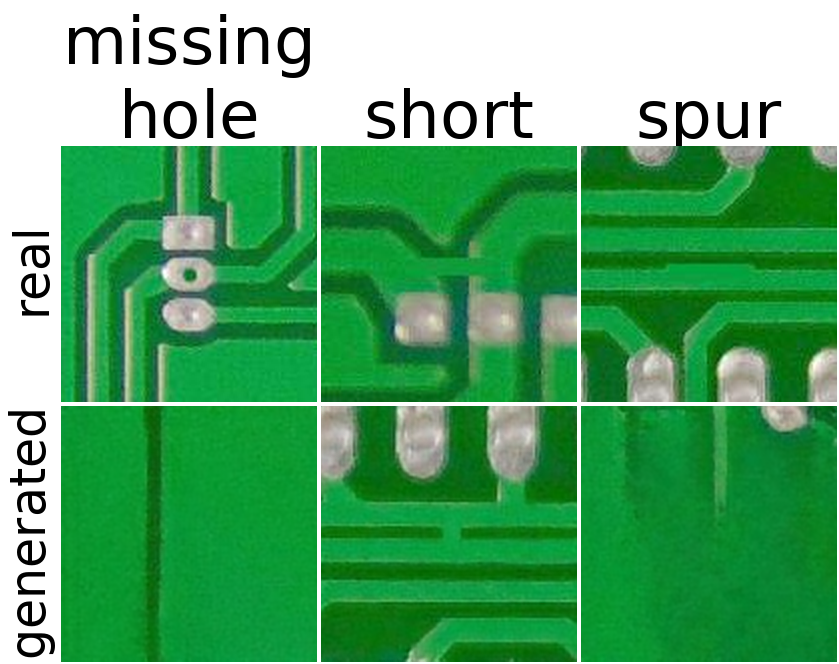
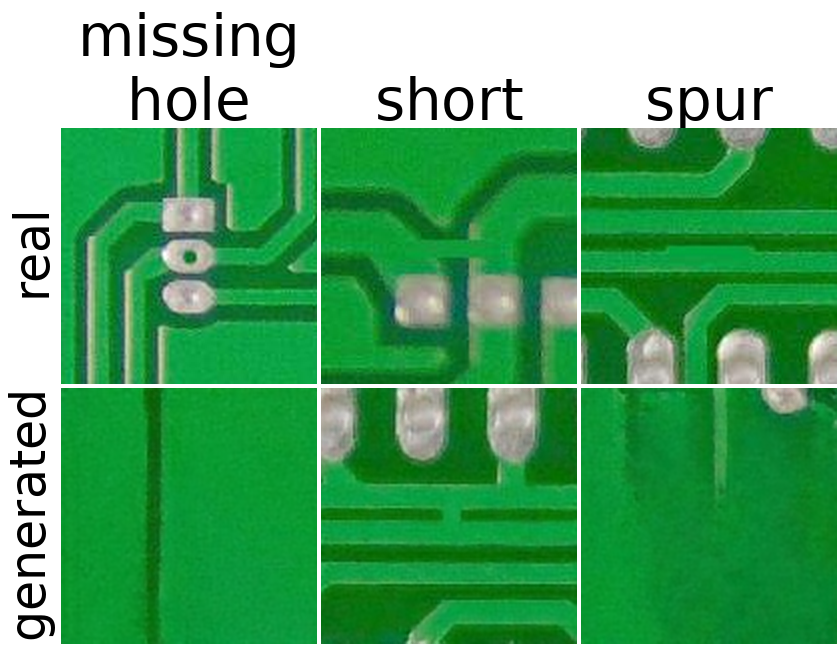
Record the authoritative paper title; correct findings.md Table 1; rescale figure labels to 10 pt
TITLE. The submitted manuscript is a .docx and is not in this repository, so the
title had no authoritative record here. PROVENANCE.md gains a section 0 holding
it -- "What Helps PCB Defect Classification: Crop Scale, Not Generative
Augmentation" -- and README.md's H1 now matches. findings.md's opening line is a
headline, not a title, and section 0 says so.

FINDINGS.MD. Two cells printed 0.896 +/- 0.018 for the TIGHT size-matched
result. Recomputed from results/classifier_Atight_b100_s*.json: macro_f1 is
0.897488 +/- 0.020431 and accuracy is 0.895753, so 0.896 was the accuracy mean
sitting in a macro-F1 column, and no field anywhere has std 0.018. Both cells
now read 0.897 +/- 0.020, matching results/paper_tables.md (which was already
correct) and AUDIT.md section 6 claim 2.

Also corrected in the same row: the accuracy cell read 0.898, which likewise
matches no field; actual is 0.895753 -> 0.896. This was not flagged in AUDIT.md
section 6, which scoped that claim to macro-F1.

The derived "+0.65 macro-F1" is unaffected: 0.897488 - 0.246396 = 0.6511.

FIGURE. Labels are now sized against the printed width rather than as a
multiple of the old pixel sizes. At the 2.0 in placement width the target is
10 pt body text:

  - columns 66 -> 58 px = 9.95 pt. Target met; the tile-width cap is not
    binding, since "missing" is 222 px at 58.
  - rows stay at 49 px = 8.41 pt. The 58 px request is NOT met and cannot be:
[…]

Changed region(s): [[0.0, 0.0, 1.0, 0.9907], [0.0, 0.3096, 0.062, 0.4954]]

diff --git a/make_fig_samples.py b/make_fig_samples.py
@@ -11,24 +11,24 @@ fig_samples_NOTE.txt.
 
 B/W-print safe: black text on white, no colour-coded annotations.
 
-Labels are sized for legibility at ~2-inch print width, targeting ~4x the
-original 17/16 px. Neither axis reaches a full 4x, because a 256 px tile is the
-hard limit in both directions and fit_font caps each to it:
-  - COLUMNS: "missing_hole" on one line is 441 px at 4x against a 256 px tile,
-    so column labels wrap at the underscore ("missing" / "hole"). "missing" is
-    253 px at 66 and 257 px at 67 -> 66 px, i.e. 3.9x.
-  - ROWS: horizontally, "generated" is 331 px against an 84 px gutter (largest
-    single-line fit 16 px = 1.0x), so row labels are rotated 90 deg. Rotation
-    trades the width limit for a height one: the label now runs along the
-    256 px tile height, where "generated" is 331 px at 4x and would clip. The
-    cap is 49 px, i.e. 3.1x.
+Labels are sized against the PRINTED width (PRINT_WIDTH_IN), to sit at 10 pt
+body text. A 256 px tile is the hard limit in both directions and fit_font caps
+each label to it, returning the largest size that fits:
+  - COLUMNS: "missing_hole" on one line is 388 px at 58 px against a 256 px
+    tile, so column labels wrap at the underscore ("missing" / "hole").
+    "missing" is then 222 px, so 58 px stands: 9.96 pt, i.e. 10 pt as intended.
+  - ROWS: horizontally, "generated" is 300 px at 58 px against an 84 px gutter,
+    so row labels are rotated 90 deg. Rotation trades the width limit for a
+    height one -- the label runs along the 256 px tile height, where
+    "generated" is still 300 px at 58 px. Capped at 49 px = 8.4 pt, the largest
+    that fits. Rows cannot reach 10 pt at this print width; the note file
+    records the actual value rather than the requested one.
 
-Net effect: the gutter shrinks 92 -> 59 px and the tiles' share of the figure
-width RISES, 87.3% -> 91.5%. At 2-inch print width the labels are ~11.3 pt
-(columns) and ~8.4 pt (rows), against ~2.8 / ~2.6 pt before.
+assert_no_clipping() fails the build if any ink reaches the canvas edge, so a
+cap that is set too high can never silently truncate a label.
 
-Tiles are pasted 1:1 at native 256x256 and are never resampled; enlarging the
-labels cannot alter tile pixels.
+Tiles are pasted 1:1 at native 256x256 and are never resampled; changing label
+sizes cannot alter tile pixels.
 
 Output: fig_samples.png (600 dpi), fig_samples.pdf (vector text, embedded
 rasters) and fig_samples_NOTE.txt in project root.
@@ -45,15 +45,21 @@ TILE, GAP = 256, 4
 SEED = 0
 DPI = 600
 
-# Target ~4x the original 17/16 px, then cap each so nothing overruns a 256 px
-# tile. Both caps are computed (see fit_font) rather than hard-coded, so the
-# figure cannot silently clip if a class name or font ever changes:
+# Label sizing is driven by the PRINTED size, not by the pixel size: the figure
+# is placed at PRINT_WIDTH_IN inches, and a label of N px in a W px-wide figure
+# then sets N/W * PRINT_WIDTH_IN * 72 points. 58 px in the current 839 px figure
+# is 9.96 pt at 2.0 in, i.e. matched to 10 pt body text.
+#
+# Targets are requests, not guarantees. fit_font caps each so nothing overruns a
+# 256 px tile, and returns the largest size that fits:
 #   - column labels wrap at the underscore; the widest token must fit the tile
-#     WIDTH. "missing" is 253 px at 66 and 257 px at 67 -> cap 66 (3.9x).
+#     WIDTH. "missing" is 222 px at 58, so the target is met.
 #   - row labels are rotated 90 deg, so their length runs along the tile
-#     HEIGHT. "generated" is 331 px at 64, which overran the 256 px row and
-#     clipped the "g" -> cap 49 (3.1x).
-TARGET_COL, TARGET_ROW = 68, 64
+#     HEIGHT. "generated" is 331 px at 64 and 300 px at 58, both of which
+#     overrun a 256 px row -> capped at 49 px (8.4 pt), the largest that fits.
+#     Rows therefore cannot reach 10 pt at this print width; see NOTE output.
+PRINT_WIDTH_IN = 2.0
+TARGET_COL, TARGET_ROW = 58, 58
 MARGIN = 2          # was 6; trimmed so the enlarged labels cost the tiles less
 GUTTER_PAD = 12     # around the rotated row label
 HEADER_PAD = 8      # between the column label block and the tile top
@@ -102,6 +108,12 @@ def _probe():
     return ImageDraw.Draw(Image.new("RGB", (8, 8)))
 
 
+def pt(px_size, fig_w):
+    """Point size a px-tall label occupies when the figure is printed at
+    PRINT_WIDTH_IN inches wide."""
+    return px_size / fig_w * PRINT_WIDTH_IN * 72.0
+
+
 def fit_font(strings, limit, target):
     """Largest size <= target at which every string measures <= limit px along
     its layout axis. Guards against silent clipping."""
@@ -142,6 +154,9 @@ def geometry():
     header_h = n_lines * line_h + (n_lines - 1) * lead + HEADER_PAD
 
     row_w = max(text_size(d, r, f_row)[0] for r in ("real", "generated"))
+    # extent the row label WOULD have at the requested size, for the note
+    f_target = load_font(TARGET_ROW)
+    row_w_target = max(text_size(d, r, f_target)[0] for r in ("real", "generated"))
     row_h = max(text_size(d, r, f_row)[1] for r in ("real", "generated"))
     gutter_w = row_h + GUTTER_PAD          # rotated: height becomes width
 
@@ -150,7 +165,25 @@ def geometry():
     return dict(W=W, H=H, header_h=header_h, gutter_w=gutter_w,
                 line_h=line_h, lead=lead, row_w=row_w, row_h=row_h,
                 x0=MARGIN + gutter_w, y0=MARGIN + header_h,
-                f_col=f_col, f_row=f_row, col_px=col_px, row_px=row_px)
+                f_col=f_col, f_row=f_row, col_px=col_px, row_px=row_px,
+                row_w_target=row_w_target)
+
+
+def assert_no_clipping(fig):
+    """Fail loudly if any ink reaches the canvas edge. An earlier revision drew
+    a rotated row label 331 px long into a 256 px row and silently clipped the
+    "g" off "generated"; the metrics all looked fine. This catches that."""
+    W, H = fig.size
+    px = fig.load()
+    ink = lambda x, y: sum(px[x, y][:3]) < 600
+    edges = {"top": [(x, 0) for x in range(W)],
+             "bottom": [(x, H - 1) for x in range(W)],
+             "left": [(0, y) for y in range(H)],
+             "right": [(W - 1, y) for y in range(H)]}
+    hits = {k: sum(1 for p in v if ink(*p)) for k, v in edges.items()}
+    bad = {k: n for k, n in hits.items() if n}
+    if bad:
+        raise SystemExit(f"content clipped at canvas edge: {bad}")
 
 
 def draw_png(picks, g):
@@ -182,6 +215,7 @@ def draw_png(picks, g):
                 raise SystemExit(f"{picks[(row, cls)]} is {im.size}, not 256x256")
             fig.paste(im, (g["x0"] + j * (TILE + GAP), ry))
 
+    assert_no_clipping(fig)
     out = os.path.join(ROOT, "fig_samples.png")
     fig.save(out, dpi=(DPI, DPI))
     return out
@@ -265,9 +299,18 @@ def main():
             f"tiles 256x256 as-is; {DPI} dpi\n"
             "also written: fig_samples.pdf (same layout, same tiles; vector "
             "text, embedded rasters)\n"
-            "labels enlarged for 2-inch print width: column labels wrap at the "
-            f"underscore ({g['col_px']} px), row labels rotated 90 deg "
-            f"({g['row_px']} px); each capped to fit the 256 px tile\n"
+            f"figure {g['W']}x{g['H']} px; placed at {PRINT_WIDTH_IN} in wide\n"
+            f"column labels: wrap at the underscore, {g['col_px']} px = "
+            f"{pt(g['col_px'], g['W']):.1f} pt at that width "
+            f"(target {TARGET_COL} px, cap not binding)\n"
+            f"row labels: rotated 90 deg, {g['row_px']} px = "
+            f"{pt(g['row_px'], g['W']):.1f} pt at that width "
+            f"(target {TARGET_ROW} px CAPPED: at {TARGET_ROW} px the rotated "
+            f"label would span {g['row_w_target']} px against a {TILE} px row, "
+            f"so it is reduced to {g['row_px']} px / {g['row_w']} px, the "
+            "largest that fits without clipping)\n"
+            f"if the figure is placed at another width, multiply by "
+            f"(width / {PRINT_WIDTH_IN})\n"
             "\nchosen files:\n")
         for (row, cls), p in picks.items():
             fh.write(f"  {row:9s} {cls:13s} {os.path.relpath(p, ROOT)}\n")

diff --git a/findings.md b/findings.md
@@ -31,7 +31,7 @@ At 100% budget, **size-matched** (both 2149 training crops):
 | set | n_train | macro-F1 | accuracy |
 |---|---|---|---|
 | 600px (baseline) | 2149 | **0.246 ± 0.013** | 0.315 |
-| TIGHT matched | 2149 | **0.896 ± 0.018** | 0.898 |
+| TIGHT matched | 2149 | **0.897 ± 0.020** | 0.896 |
 | TIGHT per-bbox | 4274 | 0.947 ± 0.005 | 0.947 |
 
 - **Crop scale: +0.65 macro-F1 (+265%)**, with dataset size held fixed.
@@ -57,7 +57,7 @@ Cause: the median defect is **27×27 px inside a 600×600 crop** (~4.5% of frame
 | 10% | 0.144 ± 0.035 | **0.422 ± 0.036** |
 | 25% | 0.191 ± 0.029 | **0.640 ± 0.010** |
 | 50% | 0.252 ± 0.016 | **0.779 ± 0.007** |
-| 100% | 0.246 ± 0.013 | **0.896 ± 0.018** |
+| 100% | 0.246 ± 0.013 | **0.897 ± 0.020** |
 
 The 600px baseline is *at chance* at the 10% budget — the very regime the scarcity argument
 rests on. With correct crops, a plain ResNet-18 reaches **0.42 at 10%** and **0.90 at 100%**

diff --git a/PROVENANCE.md b/PROVENANCE.md
@@ -26,6 +26,23 @@ mtimes are mutable filesystem metadata and carry no cryptographic guarantee.
 
 ---
 
+## 0. Paper titles — authoritative
+
+The submitted manuscripts are `.docx` files and are **not in this repository**.
+Their titles are recorded here so the repo has one authoritative source; every
+other mention (README H1, tag annotations) is derived from this section.
+
+| paper | title |
+|---|---|
+| ICETA 2026 | **What Helps PCB Defect Classification: Crop Scale, Not Generative Augmentation** |
+| ICCE-TW 2026 | *not recorded here — see §2* |
+
+`findings.md` opens with a **headline**, not a title: "Crop methodology, not
+generative AI, is what moves PCB defect classification." It paraphrases the
+argument and should not be cited as the paper's name.
+
+---
+
 ## 1. The two states
 
 | | ICCE-TW 2026 | ICETA 2026 |

diff --git a/README.md b/README.md
@@ -1,4 +1,4 @@
-# Crop scale, not generative AI, drives PCB defect classification
+# What Helps PCB Defect Classification: Crop Scale, Not Generative Augmentation
 
 Code and results for two papers on PCB defect generation and classification,
 built on [rosinality/vq-vae-2-pytorch](https://github.com/rosinality/vq-vae-2-pytorch):
